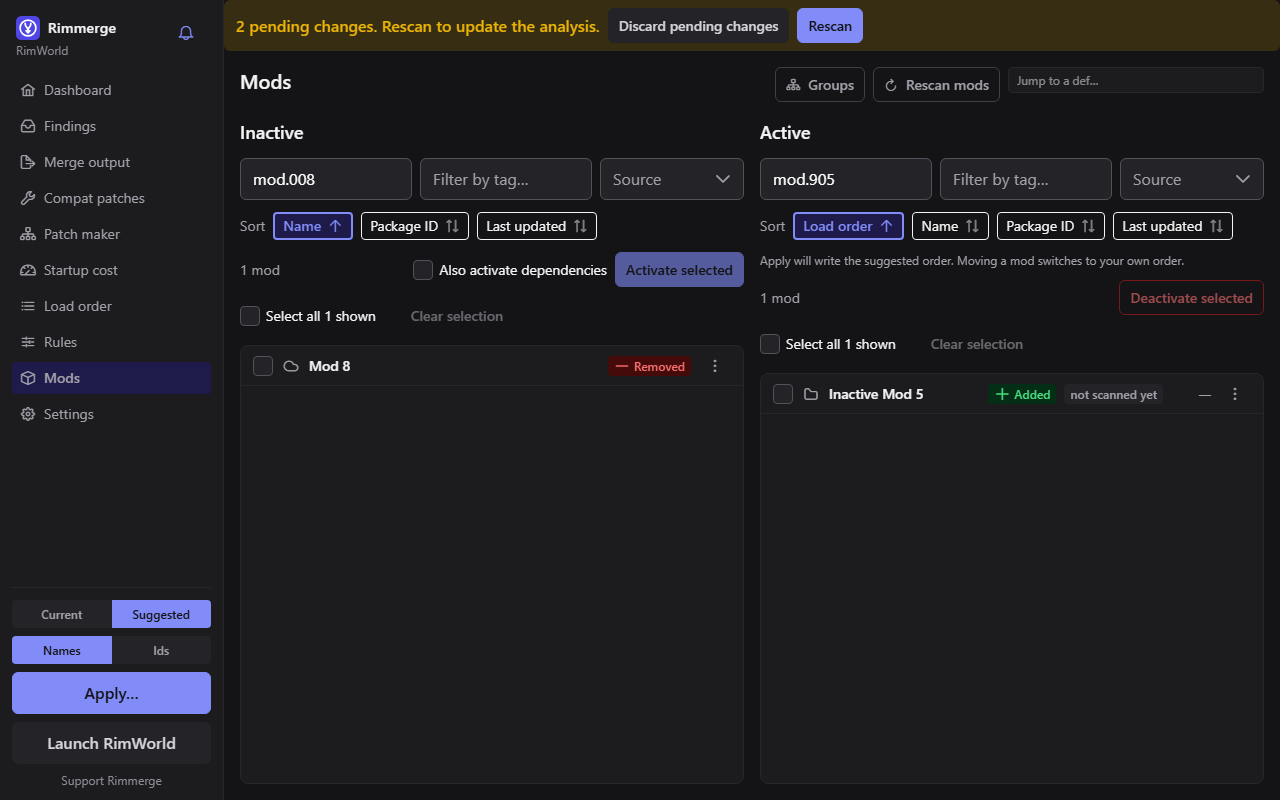
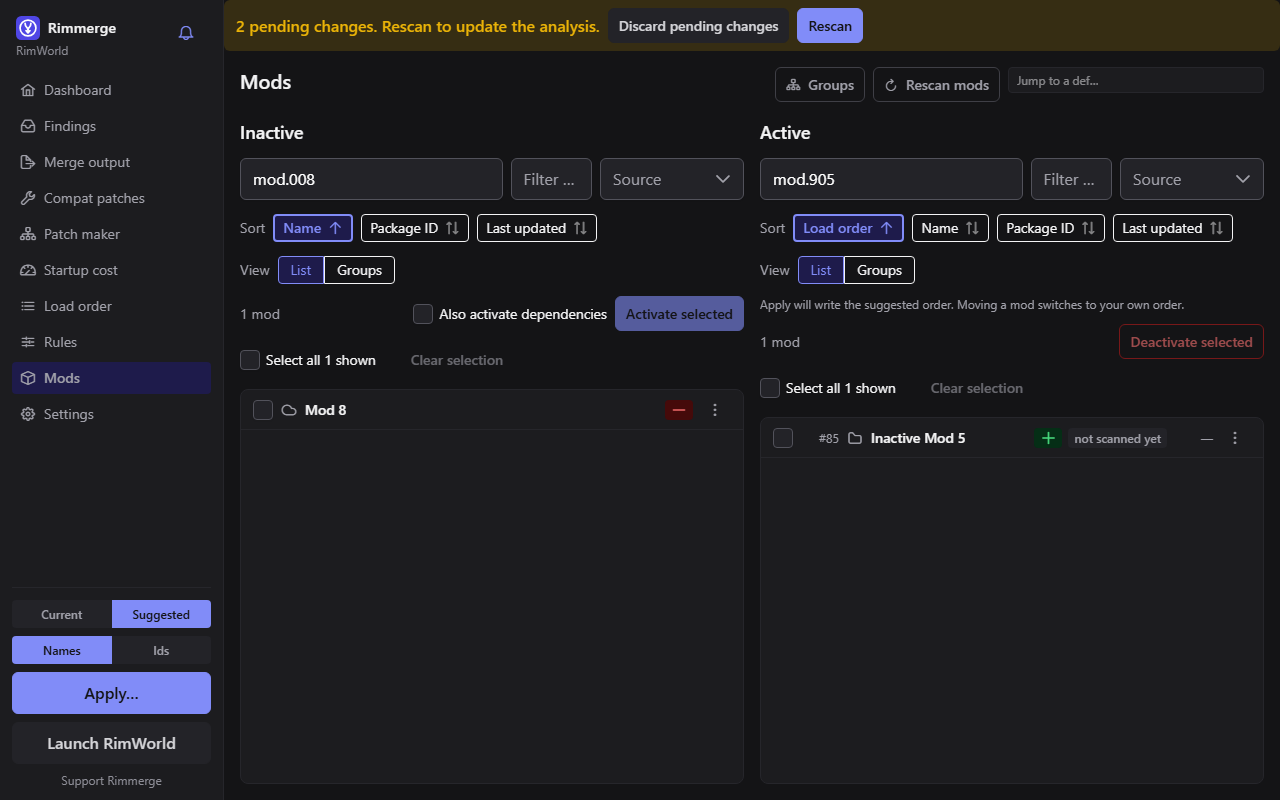
docs: 1.2.7 screenshots and an accuracy pass over the milestone's docs
Adds screenshots of the Groups view, search highlight, copying groups
from another profile, the Apply outside-change confirm and the note on
other pages, and re-captures the Mods page scenes the narrow-layout
changes touched. The CHANGELOG gains the missing Groups view and row
entries, and desktop.md now says the sort is remembered. Three e2e and
screenshot steps that measured or captured before the debounced search
answer had replaced the old rows now wait for it.

diff --git a/apps/desktop/e2e/screenshots/docs.spec.ts b/apps/desktop/e2e/screenshots/docs.spec.ts
@@ -22,6 +22,19 @@ const IS_ENABLED = process.env["RIMMERGE_DOCS_SCREENSHOTS"] === "1";
 const SCREENSHOTS_DIR = path.resolve(import.meta.dirname, "../../../../docs/screenshots");
 const MODS_PAGE_DIR = path.join(SCREENSHOTS_DIR, "mods-page");
 const SAVES_FOLDER = "C:/Users/example/Saves";
+const OTHER_PROFILE = "C:/Profiles/other";
+/** The other profile's `organization.json`, as the mock reads it for the copy dialog. */
+const COPY_SOURCES = {
+  [OTHER_PROFILE]: {
+    kind: "organization",
+    groups: [
+      { id: 1, name: "weapons", parent: null, color: "red", members: ["mod.003", "mod.004"] },
+      { id: 2, name: "Melee", parent: 1, color: null, members: ["mod.008"] },
+      { id: 3, name: "Armor", parent: null, color: "teal", members: ["mod.010"] },
+    ],
+    modColors: { "mod.003": "pink" },
+  },
+};
 
 /**
  * A dialog opens with keyboard focus on its close button, and blurring it did
@@ -299,6 +312,11 @@ test.describe("docs screenshots", () => {
         .getByTestId(`mod-row-${removedId}`)
         .getByTestId("membership-badge"),
     ).toContainText("Removed");
+    // The unfiltered inactive list already shows the Removed row, so wait for the
+    // filtered answer itself before taking the picture.
+    await expect(modsPane(page, "inactive").locator('[data-testid^="mod-row-mod."]')).toHaveCount(
+      1,
+    );
     await capture(page, path.join(MODS_PAGE_DIR, "membership-marks.png"));
   });
 
@@ -355,6 +373,93 @@ test.describe("docs screenshots", () => {
     await page.getByTestId("bulk-add-to-group-active").click();
     await expect(page.getByTestId("bulk-groups-dialog")).toBeVisible();
     await capture(page, path.join(MODS_PAGE_DIR, "bulk-add-to-group-dialog.png"));
+  });
+
+  test("mods page: the Groups view with folders, colours and a search", async ({ page }) => {
+    await startScenario(page, "dark");
+    await openMods(page);
+    await page.evaluate(async () => {
+      const invoke = window.__TAURI_INTERNALS__.invoke;
+      await invoke("create_group", {
+        request: { name: "Weapons", parent: null, modIds: ["mod.004", "mod.008"] },
+      });
+      await invoke("create_group", {
+        request: { name: "Armor", parent: null, modIds: ["mod.010", "mod.012"] },
+      });
+      await invoke("set_group_color", { request: { id: 1, color: "red" } });
+      await invoke("set_group_color", { request: { id: 2, color: "teal" } });
+      await invoke("set_mod_colors", { request: { modIds: ["mod.012"], color: "blue" } });
+    });
+    const activePane = modsPane(page, "active");
+    await activePane.getByTestId("mods-view-groups").click();
+    await expect(activePane.getByTestId("mod-groups-table")).toBeVisible();
+    await expect(activePane.getByTestId("mod-entry-1-mod.004")).toBeVisible();
+    await capture(page, path.join(MODS_PAGE_DIR, "groups-view.png"));
+
+    await activePane.getByTestId("mods-search").fill("d 1");
+    await expect(activePane.getByTestId("mod-entry-2-mod.012")).toBeVisible();
+    await expect(
+      activePane.getByTestId("mod-entry-2-mod.012").getByTestId("search-match"),
+    ).toHaveText("d 1");
+    await captureLocator(page, activePane, path.join(MODS_PAGE_DIR, "search-highlight.png"));
+  });
+
+  test("mods page: copying groups from another profile, the preview", async ({ page }) => {
+    // The copy button lives in the Groups panel, a column from 1,800 pixels wide.
+    await page.setViewportSize(WIDE);
+    await page.addInitScript((sources) => {
+      window.__COPY_PROFILE_SOURCES__ = sources as NonNullable<
+        typeof window.__COPY_PROFILE_SOURCES__
+      >;
+    }, COPY_SOURCES);
+    await startScenario(page, "dark");
+    await openMods(page);
+    await createGroup(page, "Weapons");
+    await page.evaluate((folder) => {
+      window.__PICK_FOLDER_RESULT__ = folder;
+    }, OTHER_PROFILE);
+    await page.getByTestId("group-copy-profile").click();
+    await expect(page.getByTestId("copy-profile-dialog")).toBeVisible();
+    await page.getByTestId("copy-choose").click();
+    await expect(page.getByTestId("copy-preview")).toContainText("2 groups added");
+    await capture(page, path.join(MODS_PAGE_DIR, "copy-groups-preview.png"));
+  });
+
+  test("apply: the file was changed outside Rimmerge, the confirm section", async ({ page }) => {
+    await startScenario(page, "dark");
+    await openMods(page);
+    const ids = await activeModIds(page);
+    await page.evaluate(
+      (next) => {
+        window.__MODS_CONFIG_FILE__ = { status: "ok", activeMods: next };
+      },
+      [...ids, "mod.905"],
+    );
+    await page.getByTestId("shell-apply-button").click();
+    await page.getByTestId("apply-dialog-submit").click();
+    await expect(page.getByTestId("apply-confirm-outside-text")).toContainText("(+1, -0)");
+    await capture(page, path.join(MODS_PAGE_DIR, "apply-outside-change-confirm.png"));
+  });
+
+  test("dashboard: the note on pages other than Mods when the file changed outside", async ({
+    page,
+  }) => {
+    await startScenario(page, "dark");
+    const ids = await activeModIds(page);
+    await page.evaluate(
+      (next) => {
+        window.__MODS_CONFIG_FILE__ = { status: "ok", activeMods: next };
+        window.dispatchEvent(new Event("blur"));
+        window.dispatchEvent(new Event("focus"));
+      },
+      [...ids, "mod.905"],
+    );
+    await expect(page.getByTestId("outside-change-hint")).toBeVisible();
+    await captureLocator(
+      page,
+      page.getByTestId("outside-change-hint"),
+      path.join(MODS_PAGE_DIR, "outside-change-hint.png"),
+    );
   });
 
   test("order page: importing a load order from a save", async ({ page }) => {

diff --git a/apps/desktop/e2e/specs/mods-groups.spec.ts b/apps/desktop/e2e/specs/mods-groups.spec.ts
@@ -447,6 +447,9 @@ test.describe("mods groups on a narrow row", () => {
     const pane = modsPane(page, "active");
     await pane.getByTestId("mods-search").fill("mod.004");
     const row = pane.getByTestId("mod-row-mod.004");
+    // Measure only once the search answer has replaced the old rows: a row caught
+    // mid re-render has no box.
+    await expect(pane.locator('[data-testid^="mod-row-mod."]')).toHaveCount(1);
     await expect(row.getByTestId("mod-row-color")).toBeVisible();
     const rowBox = await row.boundingBox();
     const nameBox = await pane.getByTestId("mod-row-name-mod.004").boundingBox();

diff --git a/apps/desktop/e2e/specs/mods-row-layout.spec.ts b/apps/desktop/e2e/specs/mods-row-layout.spec.ts
@@ -25,6 +25,9 @@ async function expectRowFits(page: Page, modId: string): Promise<void> {
   const pane = modsPane(page, "active");
   await pane.getByTestId("mods-search").fill(modId);
   const row = pane.getByTestId(`mod-row-${modId}`);
+  // Measure only once the search answer has replaced the old rows: the table is
+  // rebuilt when the debounced search lands, and a row caught before that has no box.
+  await expect(pane.locator('[data-testid^="mod-row-mod."]')).toHaveCount(1);
   await expect(row).toBeVisible();
 
   const rowBox = await row.boundingBox();

diff --git a/docs/desktop.md b/docs/desktop.md
@@ -111,9 +111,8 @@ anyway?" panel: the undecided problems, the ones already decided in the
 Inbox (listed apart), a link to the Inbox, and **Go back** (focused) and
 **Apply anyway**. If every problem was already decided, nothing is asked.
 Pressing Apply also reads `ModsConfig.xml` again, right then (not the
-5-second check described under the Mods page); what it finds is then what the
-Mods page marks, the note on other pages and the Launch button follow too, even
-if you go back. If the list was changed
+5-second check described under the Mods page). The Mods page marks and the
+note on other pages then go by what that read found, even if you go back. If the list was changed
 outside Rimmerge since it last read or wrote it, and the order you are
 applying would overwrite that change, the same panel names it first: how
 many mods were added and removed, or that the order was changed. The
@@ -123,6 +122,9 @@ order you are applying. **Apply anyway** still saves a timestamped backup of
 the changed file before writing, and the success message names it. If the
 file changes again after that check, while you are deciding, the backup still
 keeps whatever it held when Apply wrote.
+
+![The Apply dialog's Apply anyway panel, naming the outside change to the active mod list first: one mod added, none removed](screenshots/mods-page/apply-outside-change-confirm.png)
+
 With "Write your active mod list" unchecked, `ModsConfig.xml` is not written, so it skips the question.
 If RimWorld looks like it is running, a separate "Write anyway" prompt
 comes after this one; the two are never one button.
@@ -280,6 +282,8 @@ The marks come from the same matching that filters the list, so they never
 disagree with it. The marked text is ordinary text, not a "mark" element, so a
 screen reader reads the label as one piece and announces nothing extra per row.
 
+![The Active list in Groups view after searching "d 1": the matching text in each mod's name is highlighted](screenshots/mods-page/search-highlight.png)
+
 **Sorting the lists.** Above each list, one button per criterion sorts what
 the list shows (when the buttons do not fit the list's width, because the
 window is narrow or the language has longer words, they collapse into one
@@ -295,9 +299,9 @@ package ids compare lowercased first, then as written, then by package id, so
 the order never depends on your system language; any tie falls back to the
 package id, A first, in both directions. A sort works together with the
 search, tag and source filters, and it only changes what you see: it never
-changes the load order, a pending edit or `ModsConfig.xml`, and it is not
-saved (it is kept while the page stays open and starts over when another
-project is loaded). While the sort is Last updated, each row also shows its
+changes the load order, a pending edit or `ModsConfig.xml`. Each list
+remembers its sort across restarts and project switches (more on that below,
+after the sort buttons' screenshot). While the sort is Last updated, each row also shows its
 date (shortened when a narrow list runs out of room; hover it for the full
 date). Each Active row always shows its load-order position (`#12`), whatever
 the list is sorted by, so a sort cannot be mistaken for the order; the Inactive
@@ -408,8 +412,9 @@ outside Rimmerge (the outside-change note's own action covers that case). See
 **Added and Removed marks.** A row that differs from the active mod list saved
 on your computer carries a small mark. An Active row the saved list does not
 have is **Added** (Apply will add it), and an Inactive row the saved list still
-has is **Removed** (Apply will remove it). The mark has an icon and a word (in a list narrower than about 512 pixels, which is any
-window narrower than about 1,300 pixels, the word gives way to the icon), and its tooltip says what Apply does, so it is never colour alone; it
+has is **Removed** (Apply will remove it). The mark has an icon and a word (in a list narrower than about 512 pixels the
+word gives way to the icon; with the two lists side by side and no groups or
+info column beside them, that is a window narrower than about 1,300 pixels), and its tooltip says what Apply does, so it is never colour alone; it
 sits after the mod name. A mod counts as the same mod with or without its `_steam`
 suffix, and a reorder alone never makes a mark. "Removed" means a mod that is
 installed and still in the saved list: it stays easy to find in Inactive until
@@ -442,6 +447,8 @@ could be read; the next good read clears the note. Rescan and an import read the
 saved list is what Rimmerge wrote. On every other page, a short note under the
 pending-changes banner says the list was changed outside Rimmerge and links
 here; it goes away after a rescan, an import or an Apply.
+
+![The note on other pages: Your active mod list was changed outside Rimmerge, with a link to the Mods page](screenshots/mods-page/outside-change-hint.png)
 
 **Rescan mods** (top right of the page, always available) re-scans the
 mods in the active list in their current order, exactly as the pending
@@ -690,6 +697,9 @@ selection and lists the groups:
   and project switches. Groups view needs a usable groups file; while it is not,
   the switch says so and shows List (the remembered choice comes back once the
   file can be used).
+
+  ![The Active list in Groups view: Armor and Weapons folders with colour icons, their mods with load-order numbers and colour stripes, and Not in a group at the end](screenshots/mods-page/groups-view.png)
+
   - **Folding.** Click a folder, or use the keys, to fold it (its mods leave
     the screen, its count stays). **Collapse all** and **Expand all** sit beside
     the switch. Each list remembers its own folded folders per profile on this
@@ -722,7 +732,7 @@ selection and lists the groups:
     filter, and are left out when it has one. When nothing matches, the list says
     so. A very large library is cut at 10,000 lines; a note says how many lines
     are not shown, and folding folders or searching brings the rest back.
-- **Copy from another profile...** (the groups panel) copies another
+- **Copy from another profile…** (the groups panel) copies another
   profile's groups and colours into this one. Each profile keeps its own
   `organization.json`; pick the other profile's folder (the one holding that
   file). Profile folders sit side by side, one per `ModsConfig.xml`, in the
@@ -750,6 +760,9 @@ selection and lists the groups:
     and only its `organization.json`. A mod that is not installed keeps its
     place in a group, as everywhere else. The copy is one save, and never
     changes the load order, the active mods or the rules.
+
+  ![The Copy groups from another profile dialog: Merge selected, with a preview listing two groups added, one merged, four memberships added and one colour](screenshots/mods-page/copy-groups-preview.png)
+
 - If `organization.json` cannot be read, a notice says so and groups are
   read-only. If another program only has the file open, **Rescan and try
   again** reads it again (it is a full rescan of your mods, the only thing that

diff --git a/docs/CHANGELOG.md b/docs/CHANGELOG.md
@@ -3,9 +3,33 @@
 This changelog starts at the first public release. Development history
 before that point is not summarized here.
 
-## Unreleased
+## [Unreleased]
 
-- **Fixed: the Mods page controls stay readable at 1,024 pixels in every language.** In
+- **New: a Groups view in both Mods lists.** Each list has a **List | Groups**
+  switch under its sort buttons. **Groups** shows the same mods as folders: your
+  group tree, each folder with its colour icon, its name and how many mods it
+  holds, its subfolders first and then its mods in the list's sort order, with
+  **Not in a group** last. A mod in two groups appears under each, with an
+  "also in" mark, and selecting either copy selects the mod. Folders fold with a
+  click or the arrow keys, **Collapse all** and **Expand all** sit beside the
+  switch, and each list remembers its folded folders per profile. A folder's ⋮
+  menu has **Select all in folder**, **Activate all…** and **Deactivate all…**,
+  and dropping rows on a folder adds them to that group without activating or
+  moving them. The Active list keeps its load-order numbers but cannot be
+  reordered in Groups view; switch to List to move mods. Empty folders show
+  with 0 unless a search, tag or source filter is on.
+- **New: group colours on rows, an open-row mark and quicker group edits.**
+  Each Active row now always shows its load-order number, whatever the sort. A
+  mod with no colour of its own shows its first coloured group's colour as a
+  fainter stripe. On a narrow row the group chips become coloured dots, and
+  clicking a chip or dot narrows both lists to that group. The mod whose info
+  panel is open is marked on its row with a ring and a tint, and in the Groups
+  panel its groups have a small dot and every group a folder icon in its
+  colour. The row's ⋮ menu starts with the twelve colours as swatches. The Add
+  to group dialogs have a search box and offer **Create group** with the name
+  you typed, which creates the group and adds the mods in one save. A double
+  click on a row opens the Activate or Deactivate dialog for that mod.
+- **Fix: the Mods page controls stay readable at 1,024 pixels in every language.** In
   German, Russian, Polish and French the search and tag placeholders were cut
   off, the sort bar wrapped onto a second line, a freshly added row's date could
   shrink to a single character, and a Russian date overflowed its cell. The
@@ -36,13 +60,14 @@ before that point is not summarized here.
   app no longer knows falls back to the default. A remembered sort other than
   load order still turns reordering off and still shows the load-order numbers.
 - **New: copy groups and colours from another profile.** The Mods page's
-  groups panel has a **Copy from another profile...** button. Choose the other
+  groups panel has a **Copy from another profile…** button. Choose the other
   profile's folder (the one holding its `organization.json`) and Rimmerge shows
   what the copy would do before it does anything, for either mode.
   **Merge** combines the other profile's groups with yours: a group with the
   same name path (the same names from the top level, ignoring capitals) takes
   the other profile's mods, new groups are added under the same parent, and
-  where both profiles set a colour yours stays (listed as a clash). A colour
+  where both profiles set a colour yours stays (a differing group colour is
+  listed as a clash). A colour
   you have not set is filled in from the other profile. **Replace** removes all
   your groups and colours and puts the other profile's in their place, after a
   confirmation with **Cancel** focused. A copy that would pass a limit (groups,
@@ -52,7 +77,7 @@ before that point is not summarized here.
   groups, as they do today. The copy is one save, only reads from the other
   profile's folder, and never changes your load order, your active mods or your
   rules.
-- **Fixed: English text Rimmerge generates no longer uses em dashes.** Sort
+- **Fix: English text Rimmerge generates no longer uses em dashes.** Sort
   explanations, finding text, error messages, command-line output and
   `--help` pages, the description in a generated merge mod's `About.xml` and
   the comments in generated patches now use plain punctuation (colons, commas,
@@ -78,7 +103,7 @@ before that point is not summarized here.
   was changed elsewhere and links to the Mods page, where the existing note
   explains it. It goes away after a rescan, an import or an Apply. The Mods
   page keeps its own note and does not show this one.
-- **Fixed: a rule or decision saved while a rescan, a load or an import was
+- **Fix: a rule or decision saved while a rescan, a load or an import was
   running could be lost.** Rimmerge reads your rules, decisions, patches and
   patch maker projects from disk while it scans, and then swaps the scanned
   copy in. A rule, decision, patch or patch maker edit saved in between was
@@ -88,7 +113,7 @@ before that point is not summarized here.
   only when something really changed. If one of the files cannot be read
   again, Rimmerge keeps what the scan read and shows a notice saying that an
   edit made during the scan may be missing.
-- **Fixed: a mod you activated or deactivated could stay selected, hidden
+- **Fix: a mod you activated or deactivated could stay selected, hidden
   behind a filter.** Activating a mod together with its dependencies took
   only the mod you asked for out of the Inactive selection, so a dependency
   that a filter was hiding stayed selected, and the next "Activate selected"

diff --git a/docs/screenshots/README.md b/docs/screenshots/README.md
@@ -12,6 +12,15 @@ yet." note, as embedded in [`docs/desktop.md`](../desktop.md). They are
 mock-tier captures at the same size, dark theme; `sort-toggle.png` and
 `order-not-applied-note.png` are crops of the page.
 
+`mods-page/groups-view.png` and `mods-page/search-highlight.png` show the Active
+list in Groups view (folders, colours) and with a search marked, dark theme,
+1280x800 (`search-highlight.png` is a crop of the list).
+`mods-page/apply-outside-change-confirm.png` is the Apply dialog's confirm
+section after the file changed outside Rimmerge and
+`mods-page/outside-change-hint.png` is the note shown on the other pages (a crop).
+`mods-page/copy-groups-preview.png` is the Copy groups from another profile
+dialog with its Merge preview, at 1900x900 like the two images below.
+
 `mods-page/groups-and-bulk-actions.png` and
 `mods-page/bulk-add-to-group-dialog.png` show the Groups panel and the bulk
 actions in [`docs/desktop.md`](../desktop.md); they are dark-theme captures at

diff --git a/docs/testing.md b/docs/testing.md
@@ -201,7 +201,9 @@ placement with
 
 The Vitest side: a guard that only scans source files with `node:fs`
 (`style.guard.test.ts`, `progressbar.guard.test.ts`, `invalidation.guard.test.ts`,
-`i18n/locales.unusedKeys.test.ts`) declares `// @vitest-environment node`
+`i18n/locales.unusedKeys.test.ts`, and the colour contrast checks
+`markColors.contrast.test.ts` and `searchMatch.contrast.test.ts`, which read
+`style.css`) declares `// @vitest-environment node`
 so it does not pay for a happy-dom window, and stays well inside the default
 5 s test timeout on a loaded machine. The timeout is not raised.
 
